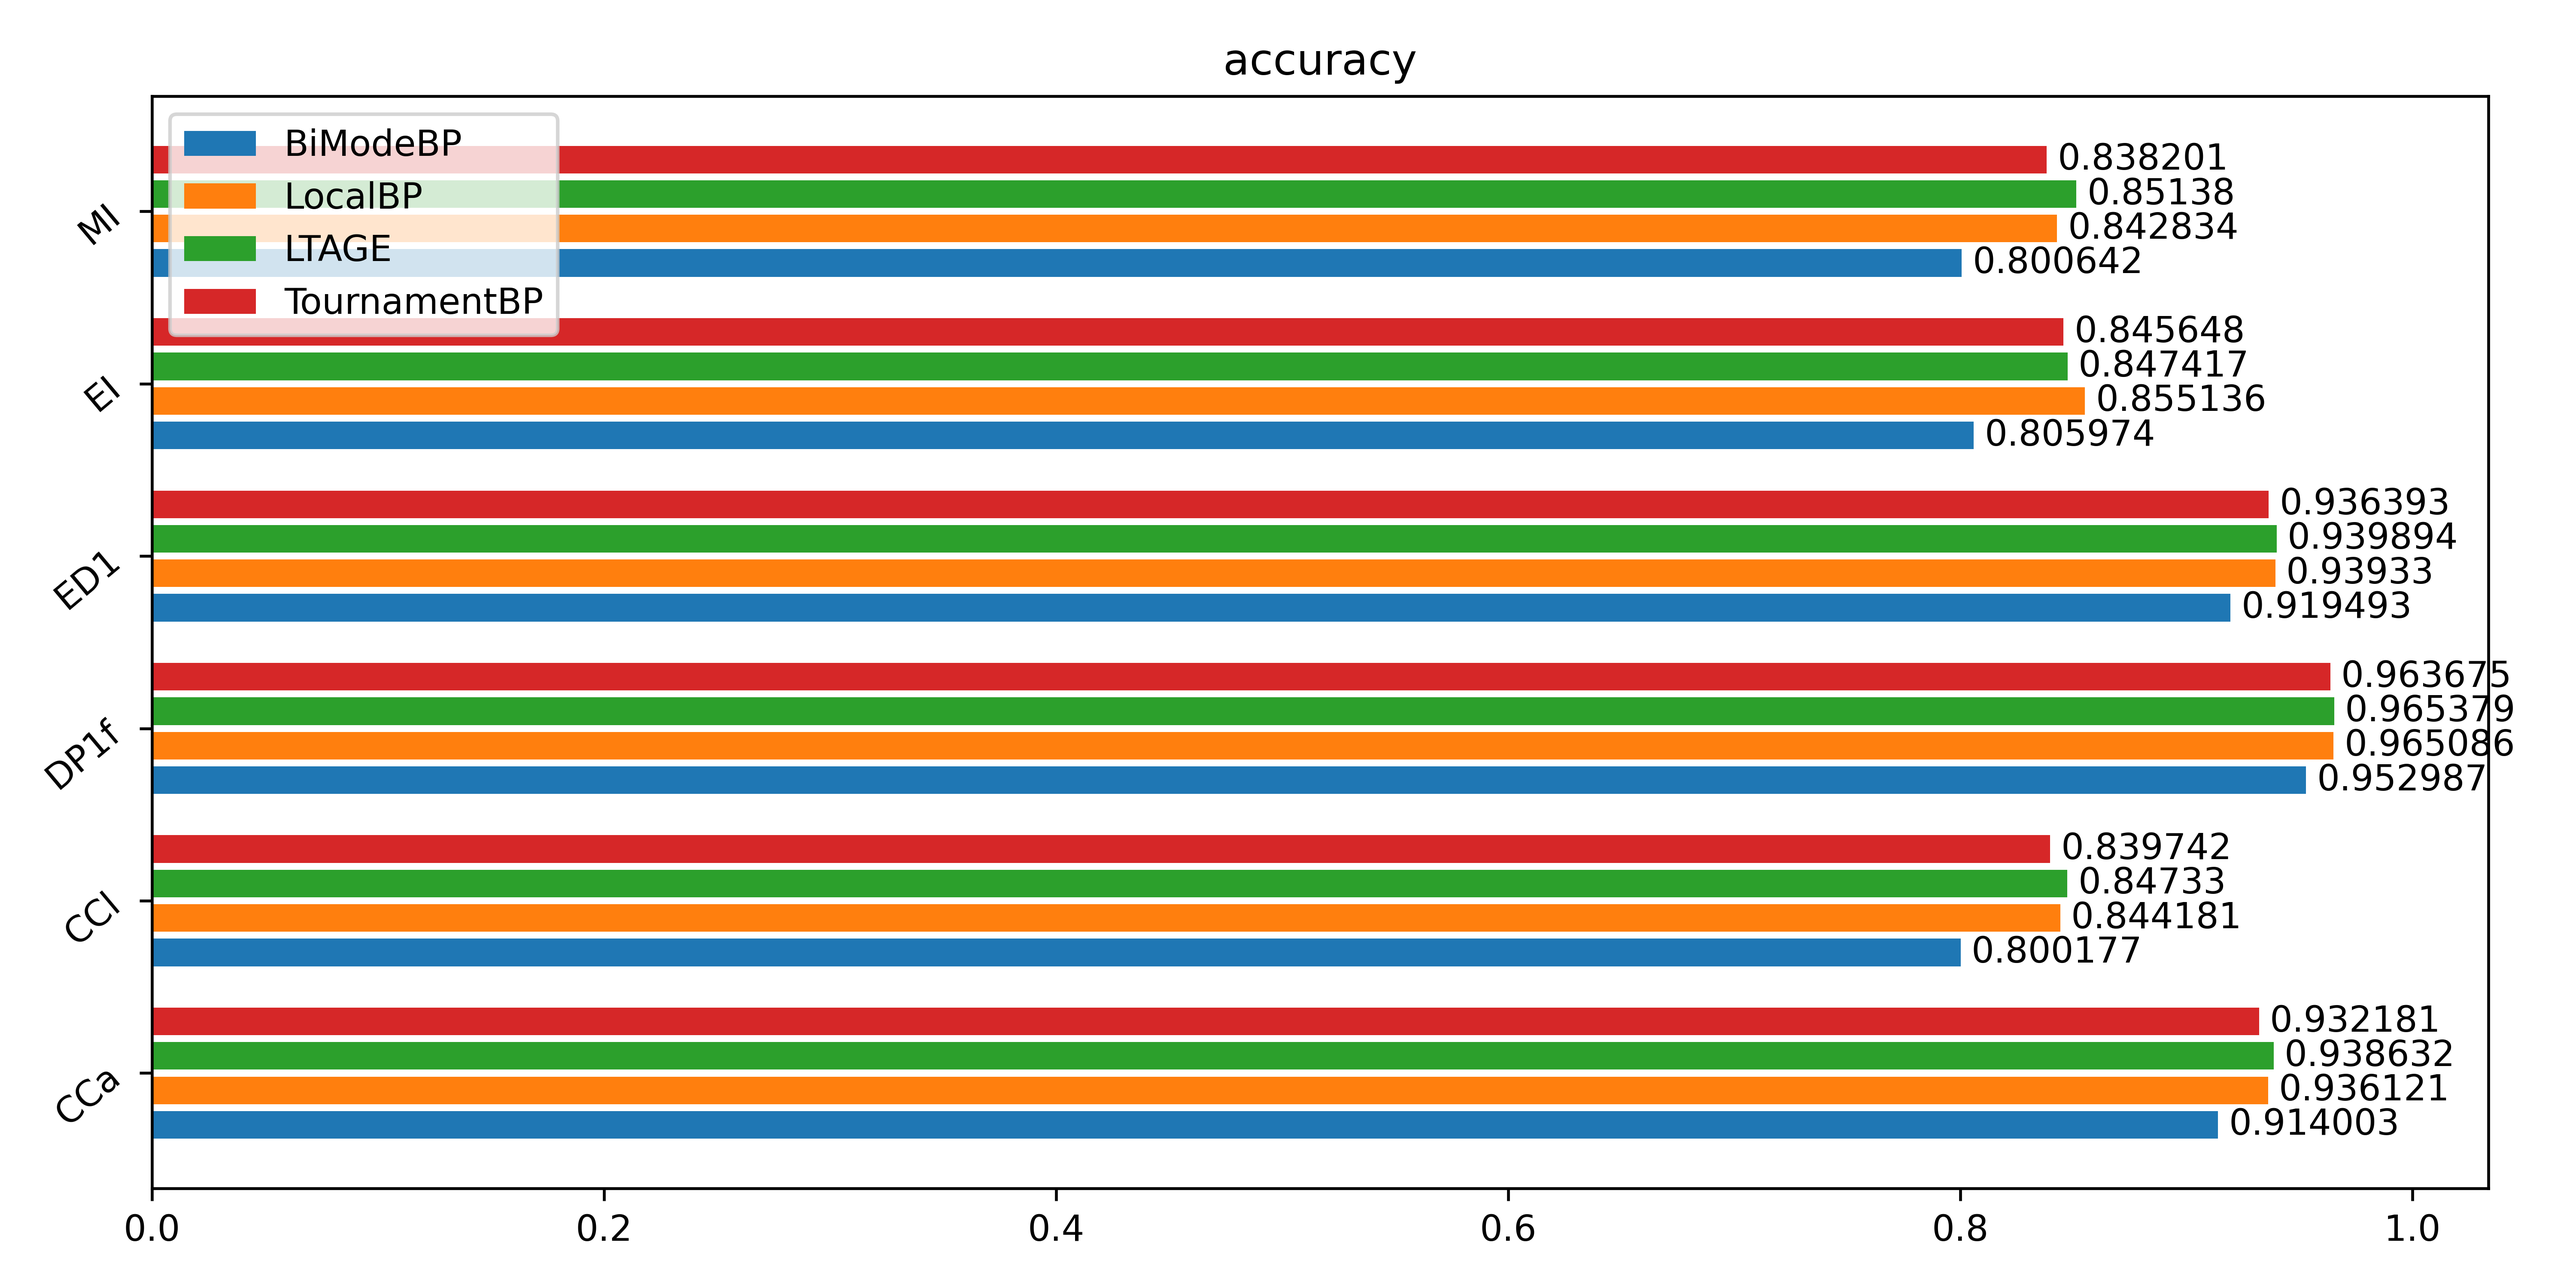
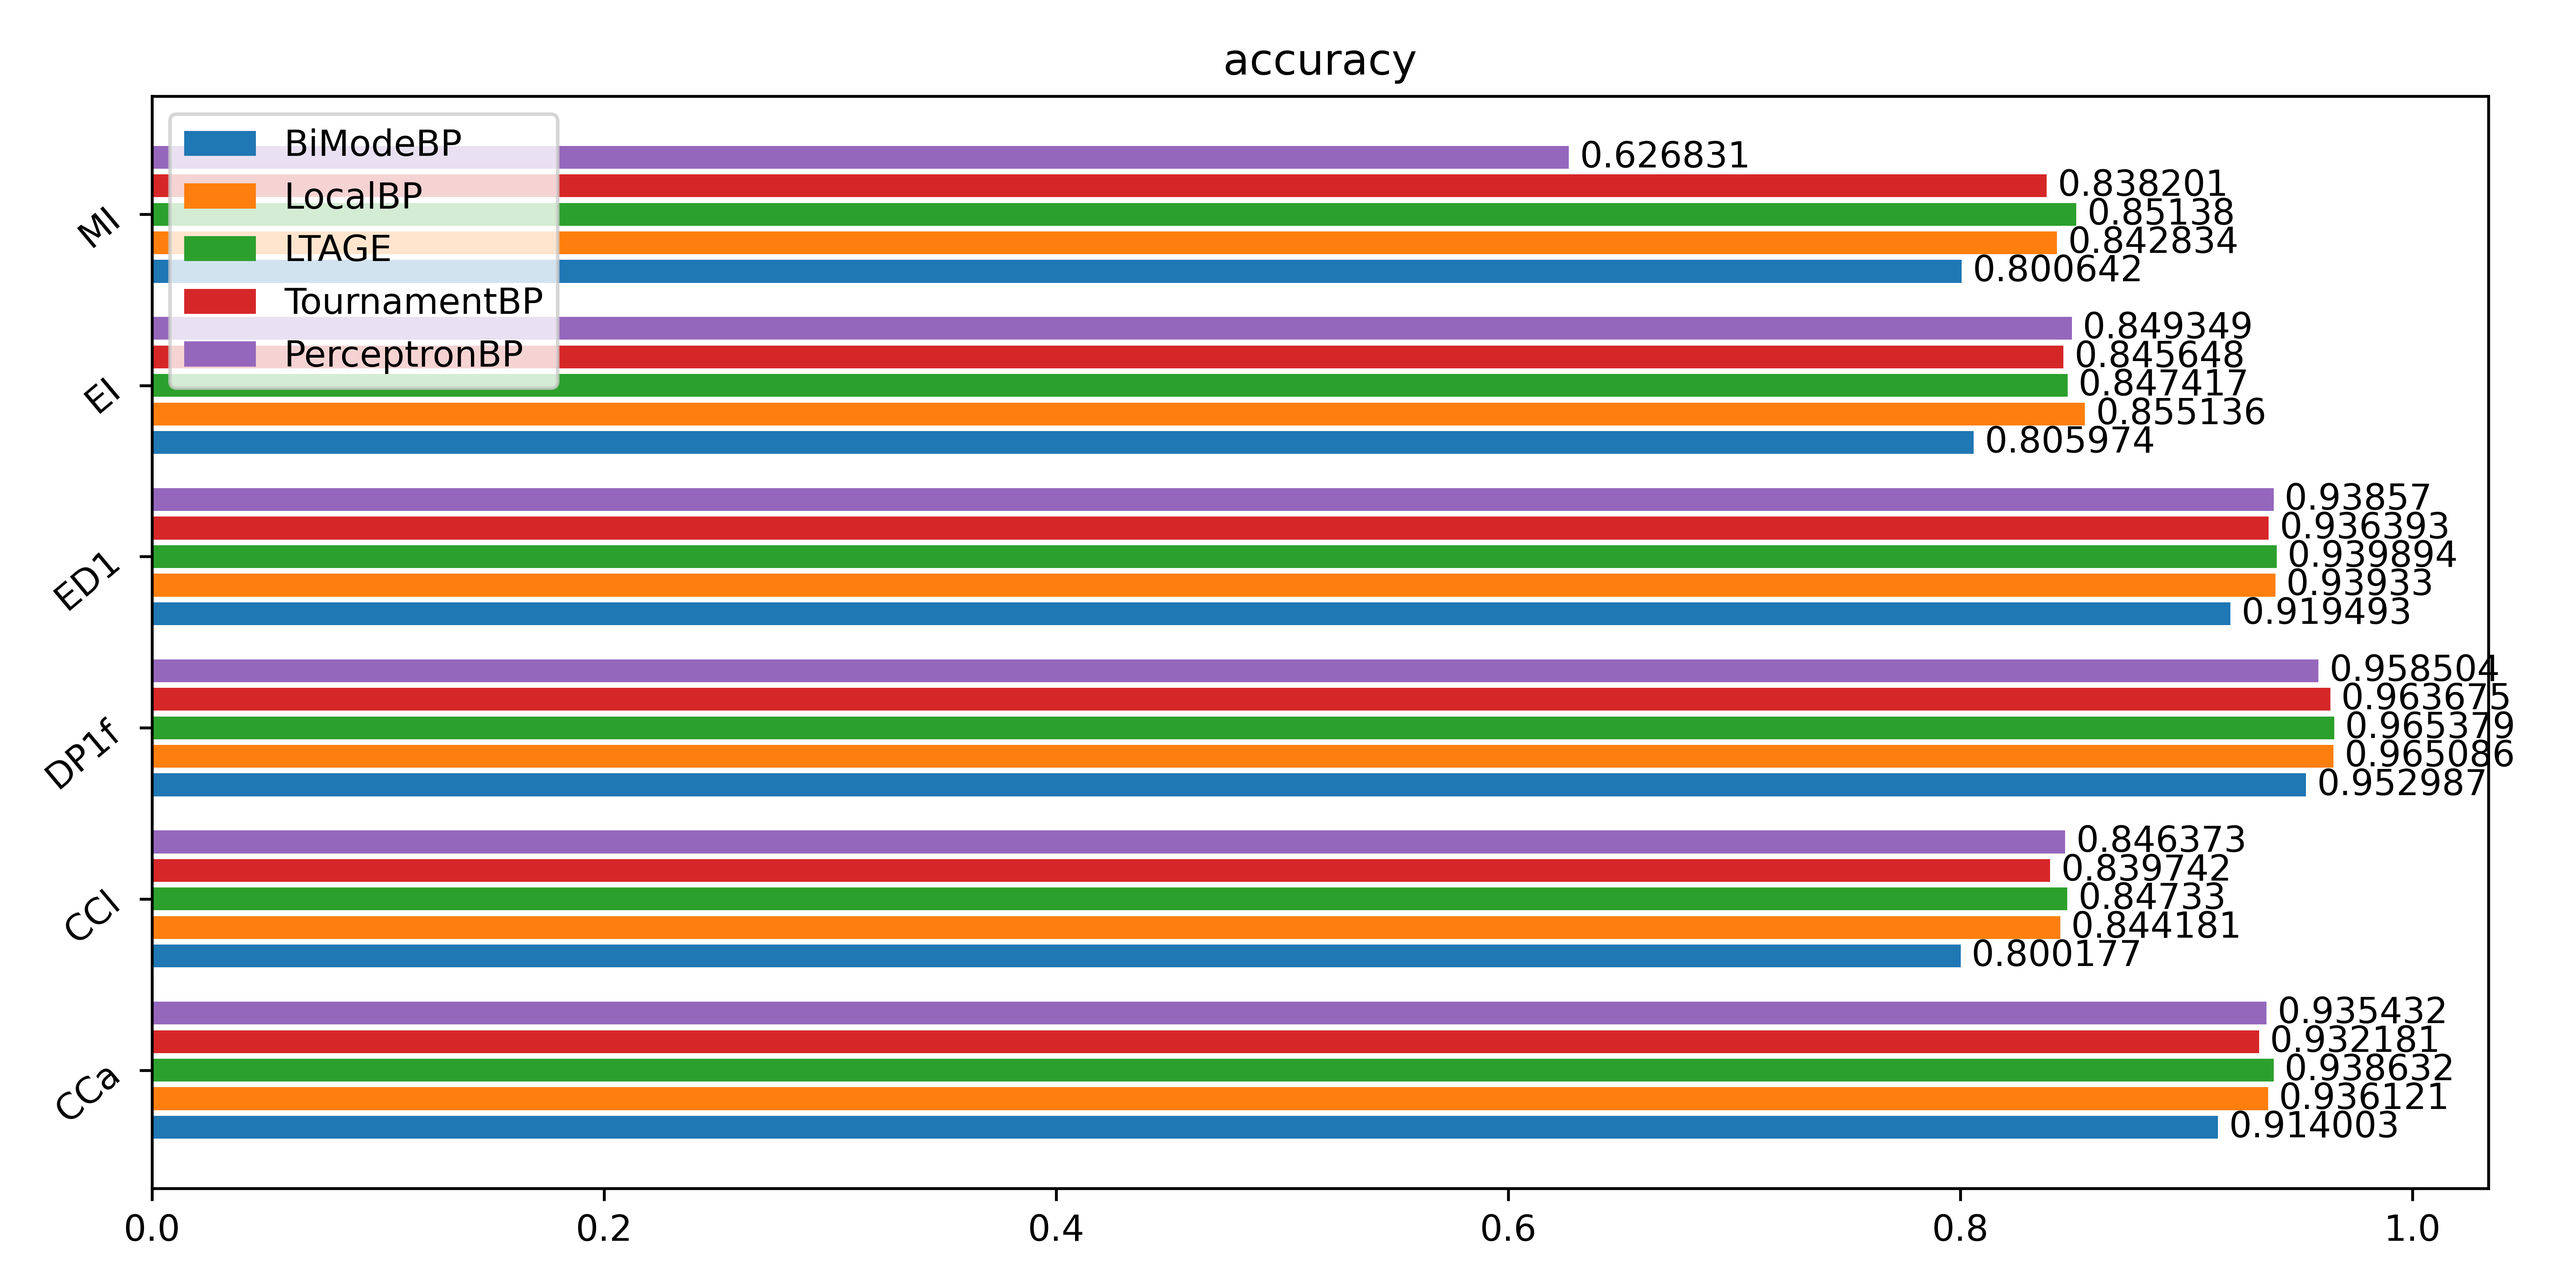
fixing perceptron seg fault issue

diff --git a/src/cpu/pred/perceptron.cc b/src/cpu/pred/perceptron.cc
@@ -40,12 +40,15 @@ PerceptronBP::PerceptronBP(const PerceptronBPParams *params)
       globalHistoryBits(ceilLog2(params->globalPredictorSize)),
       globalPredictorSize(params->globalPredictorSize)
 {
+    //std::cout << "Perceptron Constructor" << std::endl;
     if (!isPowerOf2(globalPredictorSize))
         fatal("Invalid global history predictor size.\n");
 
     historyRegisterMask = mask(globalHistoryBits);
     globalHistoryMask = globalPredictorSize - 1;
+    perceptrons.resize(globalPredictorSize);
     for (int i = 0; i < globalPredictorSize; i++) {
+        perceptrons[i].resize(globalHistoryBits);
         for (int j = 0; j < globalHistoryBits; j++) {
             perceptrons[i][j] = 0;
         }
@@ -60,9 +63,11 @@ PerceptronBP::PerceptronBP(const PerceptronBPParams *params)
 void
 PerceptronBP::uncondBranch(ThreadID tid, Addr pc, void * &bpHistory)
 {
+    //std::cout << "Perceptron uncondBranch" << std::endl;
     BPHistory *history = new BPHistory;
     history->globalHistoryReg = globalHistoryReg[tid];
     history->finalPred = true;
+    history->weights.resize(globalHistoryBits);
     for (int i = 0; i < history->weights.size(); i++)
     {
         history->weights[i] = 1;
@@ -75,6 +80,7 @@ void
 // PerceptronBP::squash(ThreadID tid, void *bpHistory, Addr branchAddr)
 PerceptronBP::squash(ThreadID tid, void *bpHistory)
 {
+    //std::cout << "Perceptron squash" << std::endl;
     BPHistory *history = static_cast<BPHistory*>(bpHistory);
     globalHistoryReg[tid] = history->globalHistoryReg;
     // unsigned globalHistoryIdx = (((branchAddr >> instShiftAmt)
@@ -100,6 +106,7 @@ PerceptronBP::squash(ThreadID tid, void *bpHistory)
 bool
 PerceptronBP::lookup(ThreadID tid, Addr branchAddr, void * &bpHistory)
 {
+    //std::cout << "Perceptron lookup" << std::endl;
     unsigned globalHistoryIdx = (((branchAddr >> instShiftAmt)
                                 ^ globalHistoryReg[tid])
                                 & globalHistoryMask);
@@ -120,6 +127,7 @@ PerceptronBP::lookup(ThreadID tid, Addr branchAddr, void * &bpHistory)
 
     BPHistory *history = new BPHistory;
     history->globalHistoryReg = globalHistoryReg[tid];
+    history->weights.resize(globalHistoryBits);
     for (int i = 0; i < perceptrons[globalHistoryIdx].size(); i++)
     {
         history->weights[i] = perceptrons[globalHistoryIdx][i];
@@ -134,6 +142,7 @@ PerceptronBP::lookup(ThreadID tid, Addr branchAddr, void * &bpHistory)
 void
 PerceptronBP::btbUpdate(ThreadID tid, Addr branchAddr, void * &bpHistory)
 {
+    //std::cout << "Perceptron btbUpdate" << std::endl;
     globalHistoryReg[tid] &= (historyRegisterMask & ~ULL(1));
 }
 
@@ -148,6 +157,7 @@ PerceptronBP::update(ThreadID tid, Addr branchAddr, bool taken,
                     void *bpHistory, bool squashed, const StaticInstPtr &
                     inst, Addr corrTarget)
 {
+    //std::cout << "Perceptron update" << std::endl;
     assert(bpHistory);
 
     BPHistory *history = static_cast<BPHistory*>(bpHistory);
@@ -155,6 +165,7 @@ PerceptronBP::update(ThreadID tid, Addr branchAddr, bool taken,
     // We do not update the counters speculatively on a squash.
     // We just restore the global history register.
     if (squashed) {
+        //std::cout << "squashed" << std::endl;
         globalHistoryReg[tid] = (history->globalHistoryReg << 1) | taken;
         return;
     }
@@ -177,6 +188,9 @@ PerceptronBP::update(ThreadID tid, Addr branchAddr, bool taken,
         * the whole point of the bi-mode predictor is to identify the
         * atypical case when a branch deviates from its bias.
         */
+        //std::cout << "taken" << std::endl;
+        //std::cout << perceptrons[globalHistoryIdx].size() << " " << history->weights.size() << std::endl;
+        
         for (int i = 0; i < perceptrons[globalHistoryIdx].size(); i++)
         {
             perceptrons[globalHistoryIdx][i] = history->weights[i] + 1;
@@ -184,6 +198,7 @@ PerceptronBP::update(ThreadID tid, Addr branchAddr, bool taken,
     }
     else
     {
+        //std::cout << "not taken" << std::endl;
         for (int i = 0; i < perceptrons[globalHistoryIdx].size(); i++)
         {
             perceptrons[globalHistoryIdx][i] = history->weights[i] - 1;
@@ -196,6 +211,7 @@ PerceptronBP::update(ThreadID tid, Addr branchAddr, bool taken,
 void
 PerceptronBP::updateGlobalHistReg(ThreadID tid, bool taken)
 {
+    //std::cout << "Perceptron updateGlobalHistReg" << std::endl;
     globalHistoryReg[tid] = taken ? (globalHistoryReg[tid] << 1) | 1 :
                                (globalHistoryReg[tid] << 1);
     globalHistoryReg[tid] &= historyRegisterMask;

diff --git a/generate_plots.py b/generate_plots.py
@@ -45,7 +45,7 @@ if(len(sys.argv) != 3):
 output_file = sys.argv[2]
 plot_stat = sys.argv[1]
 benchmarks = ["CCa", "CCl", "DP1f", "ED1", "EI", "MI"]
-predictors = ["BiModeBP", "LocalBP", "LTAGE", "TournamentBP"]
+predictors = ["BiModeBP", "LocalBP", "LTAGE", "TournamentBP", "PerceptronBP"]
 
 rows = []
 for bm in benchmarks: 
